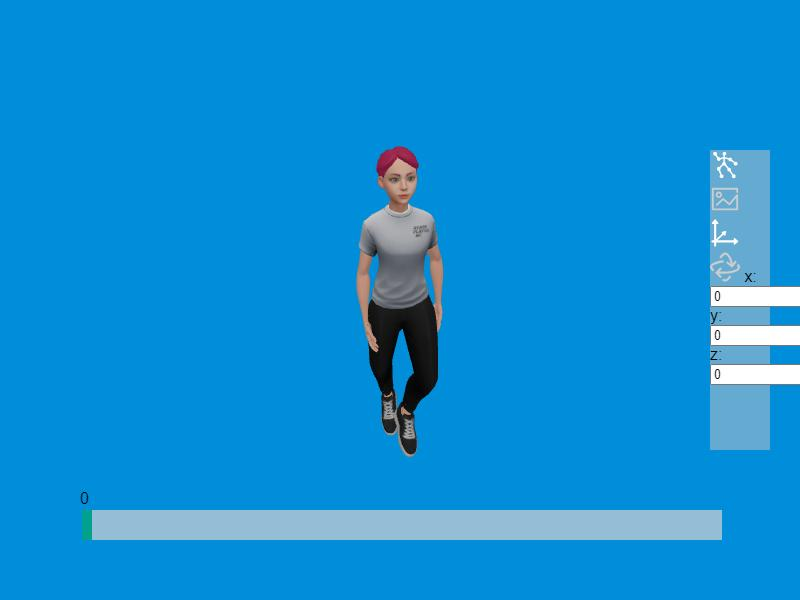
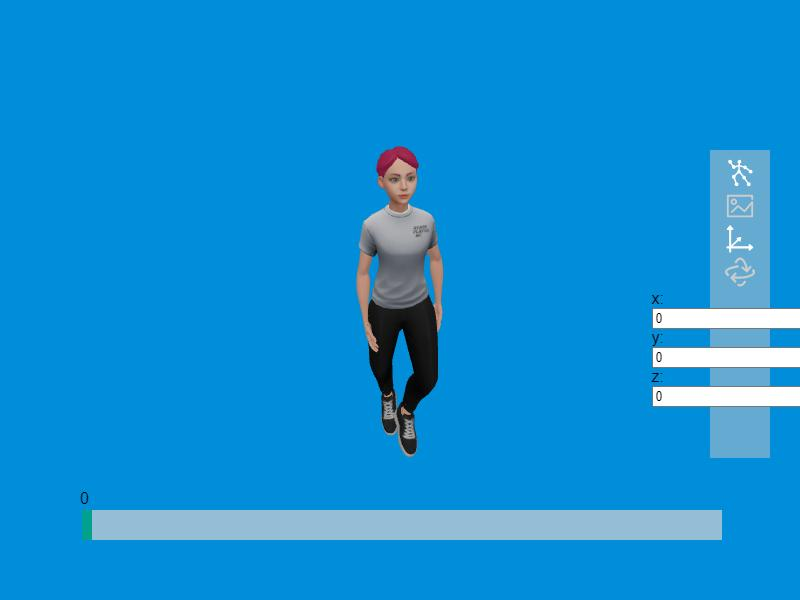
1

Changed region(s): [[0.8125, 0.24, 1.0, 0.69], [0.875, 0.75, 0.9688, 0.78]]

diff --git a/src/components/Panel.svelte b/src/components/Panel.svelte
@@ -10,10 +10,10 @@
 
 	const dispatch = createEventDispatcher();
 
-	let _control_type: "rotation" | "translation" | "" = "";
+	let _controlType: "rotation" | "translation" | "" = "";
 
 	control_type.subscribe((value) => {
-		_control_type = value;
+		_controlType = value;
 	});
 
 	function editRotation(e: Event) {
@@ -44,7 +44,7 @@
 	</button>
 	<button
 		on:click={() => {
-			if (_control_type === "translation") {
+			if (_controlType === "translation") {
 				control_type.set("");
 			} else {
 				control_type.set("translation");
@@ -57,7 +57,7 @@
 	</button>
 	<button
 		on:click={() => {
-			if (_control_type === "rotation") {
+			if (_controlType === "rotation") {
 				control_type.set("");
 			} else {
 				control_type.set("rotation");
@@ -90,5 +90,10 @@
 		width: 60px;
 		height: 50vh;
 		background-color: rgba(200, 200, 200, 0.5);
+		padding-top: 12px;
+		display: flex;
+		flex-direction: column;
+		justify-content: flex-start;
+		align-items: center;
 	}
 </style>
